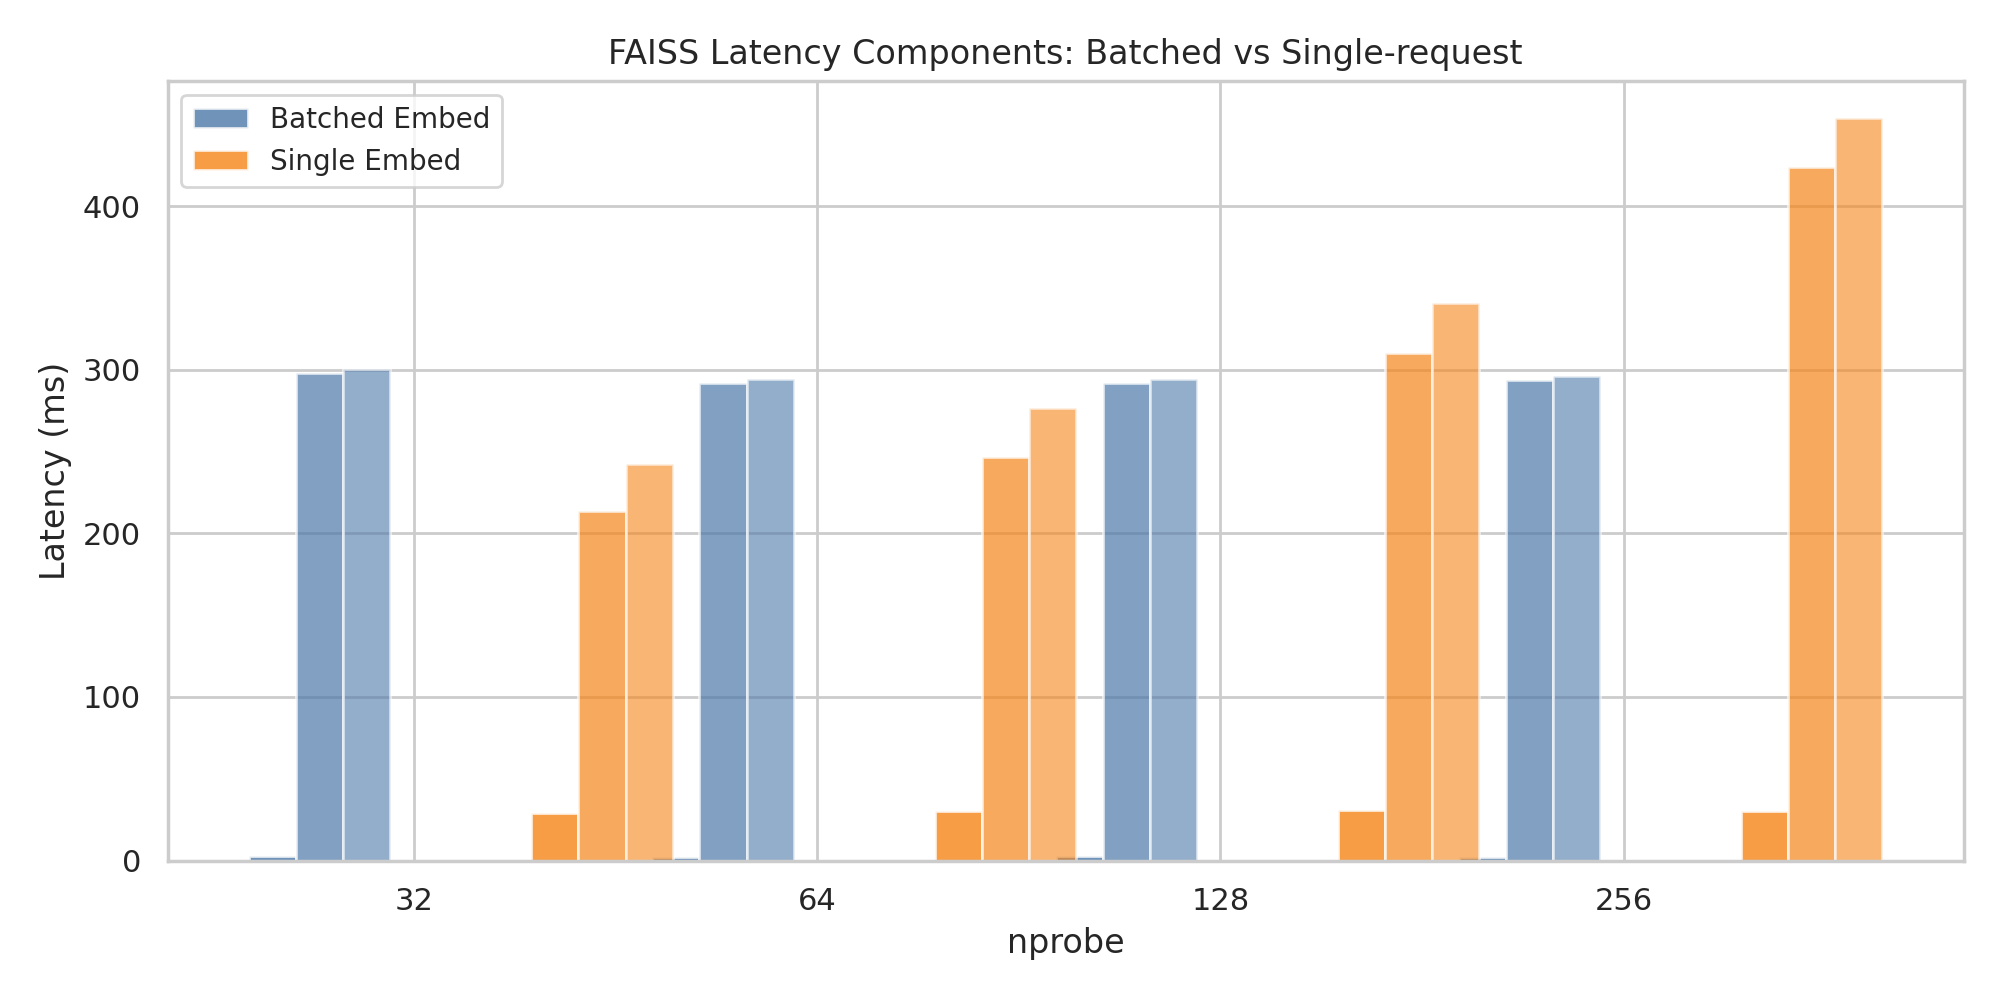
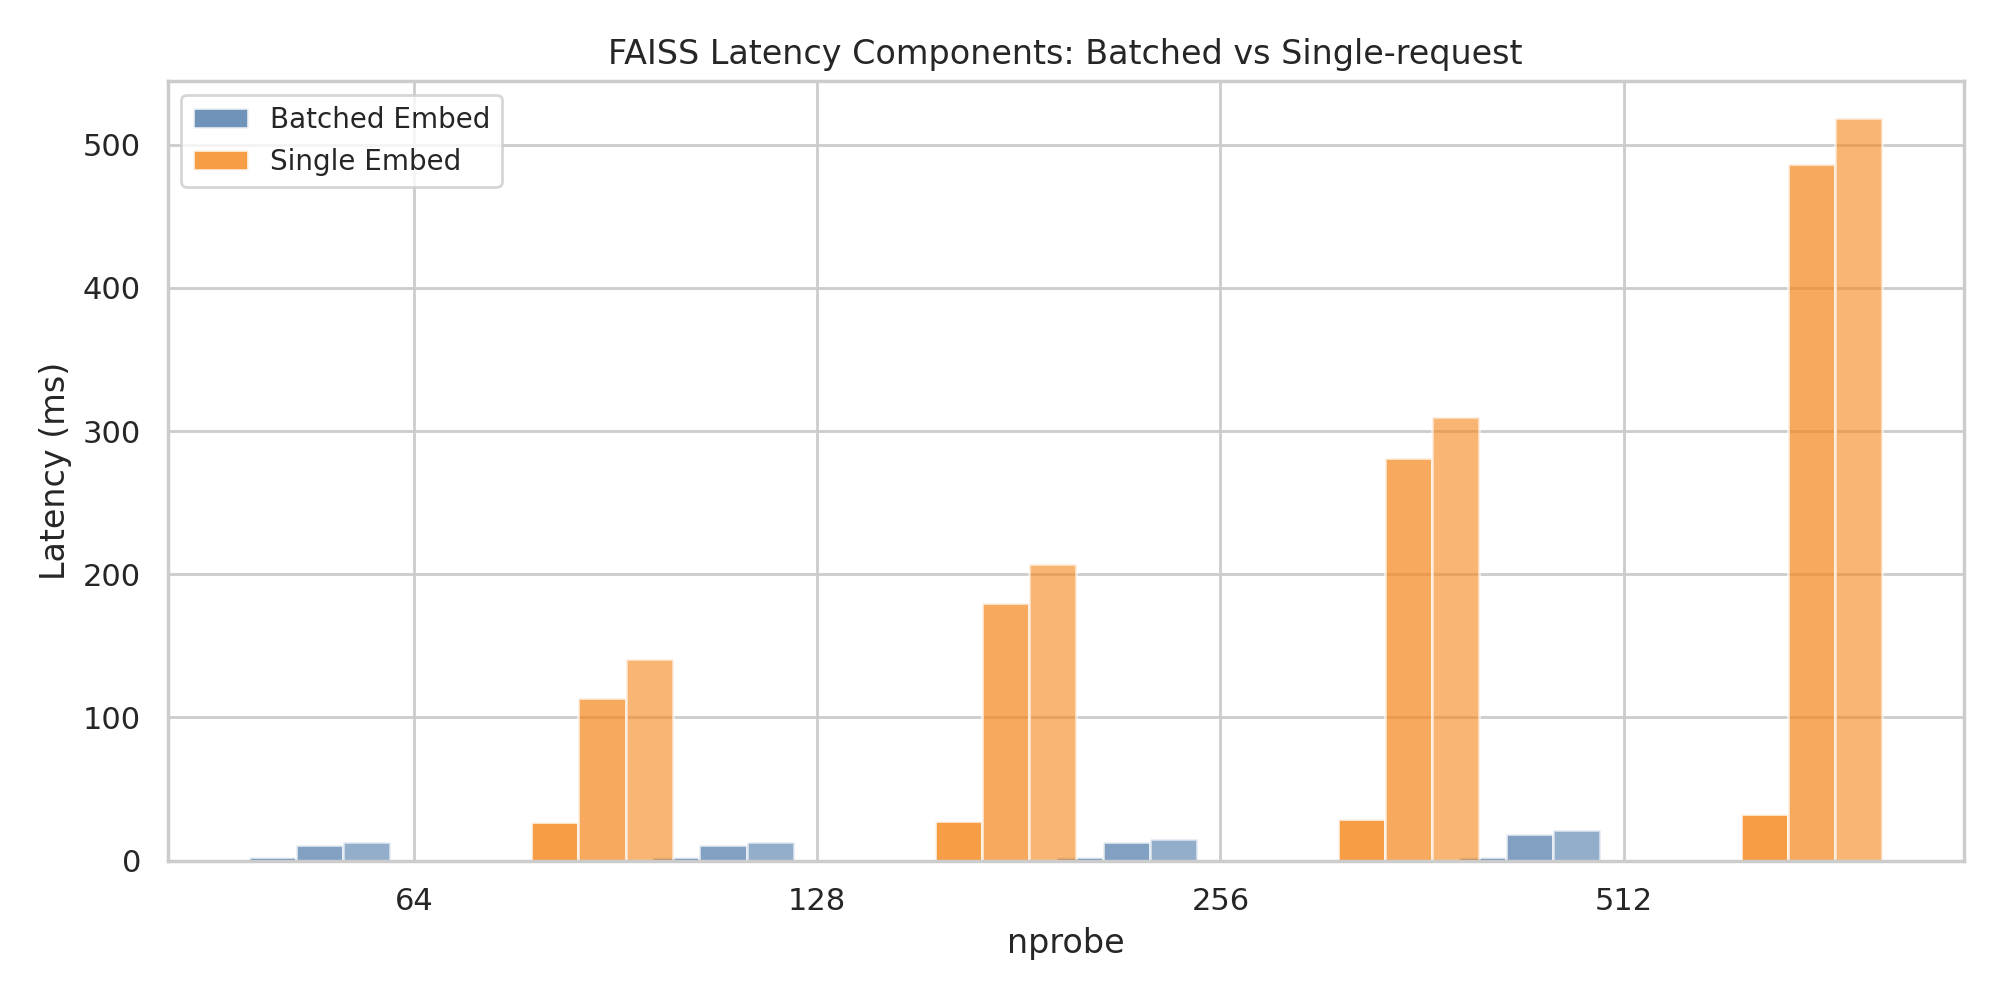
more plotting updateds

diff --git a/massive_serve/src/indicies/diskann_backend.py b/massive_serve/src/indicies/diskann_backend.py
@@ -3,12 +3,31 @@ import json
 import sys
 import threading
 from pathlib import Path
+import math
 import numpy as np
 
 try:
     import diskannpy as dap  # type: ignore
 except Exception as _e:
     dap = None
+
+
+def _resolve_k_fetch(requested_k: int, min_words, env_key: str, hard_cap: int = 256) -> int:
+    base = max(1, int(requested_k))
+    env_val = os.environ.get(env_key)
+    if env_val is not None and env_val.strip():
+        try:
+            return max(base, int(env_val))
+        except Exception:
+            pass
+    try:
+        mw = max(0, int(min_words)) if min_words is not None else 0
+    except Exception:
+        mw = 0
+    if mw <= 0:
+        return base
+    factor = 1 + min(4, max(1, math.ceil(mw / 50)))
+    return min(hard_cap, base * factor)
 
 
 class DiskANNBackend:
@@ -250,7 +269,7 @@ class DiskANNBackend:
         # Queries are used as-is (MIPS build); no query normalization.
         k = int(k)
         L = int(L)
-        W = int(W) if W is not None else 2
+        W = int(W) if W is not None else 4
         # threads: use exactly what is requested (no capping)
         eff_threads = max(1, int(threads if threads is not None else self.num_threads))
         try:
@@ -265,21 +284,7 @@ class DiskANNBackend:
         # Policy: env DISKANN_K_FETCH overrides. Otherwise:
         # - If no min_words filter: K_FETCH = k (no oversampling)
         # - If min_words > 0: K_FETCH = min(1000, k * 5)
-        try:
-            kfetch_env = os.environ.get("DISKANN_K_FETCH")
-            if kfetch_env is not None and kfetch_env.strip() != "":
-                K_FETCH = max(1, int(kfetch_env))
-            else:
-                try:
-                    _mw = int(min_words) if (min_words is not None) else 0
-                except Exception:
-                    _mw = 0
-                if _mw > 0:
-                    K_FETCH = min(1000, max(1, int(k)) * 5)
-                else:
-                    K_FETCH = max(1, int(k))
-        except Exception:
-            K_FETCH = max(1, int(k))
+        K_FETCH = _resolve_k_fetch(k, min_words, "DISKANN_K_FETCH")
         # Log a concise, clean effective config line for sanity
         try:
             print(

diff --git a/massive_serve/src/indicies/ivf_pq.py b/massive_serve/src/indicies/ivf_pq.py
@@ -6,6 +6,7 @@ import pickle
 import numpy as np
 import time
 import glob
+import math
 from tqdm import tqdm
 from rerank.exact_rerank import exact_rerank_topk
 from rerank.diverse_rerank import diverse_rerank_topk
@@ -61,6 +62,25 @@ def print_mem_use(label=""):
     mem_bytes = process.memory_info().rss
     mem_mb = mem_bytes / 1024 / 1024
     print(f"[{label}] Memory usage: {mem_mb:.2f} MB")
+
+
+
+def _resolve_k_fetch(requested_k: int, min_words, env_key: str, hard_cap: int = 256) -> int:
+    base = max(1, int(requested_k))
+    env_val = os.environ.get(env_key)
+    if env_val is not None and env_val.strip():
+        try:
+            return max(base, int(env_val))
+        except Exception:
+            pass
+    try:
+        mw = max(0, int(min_words)) if min_words is not None else 0
+    except Exception:
+        mw = 0
+    if mw <= 0:
+        return base
+    factor = 1 + min(4, max(1, math.ceil(mw / 50)))
+    return min(hard_cap, base * factor)
 
 
 
@@ -543,25 +563,7 @@ class IVFPQIndexer(object):
                 current = self.probe if hasattr(self, "probe") else 256
             print(f"[IVFPQIndexer] nprobe not provided; using default {current}")
 
-        # Dynamic oversampling policy (env override):
-        # - If FAISS_K_FETCH is set -> use max(k, FAISS_K_FETCH)
-        # - Else if min_words > 0 -> K_FETCH = min(1000, k * 5)
-        # - Else -> K_FETCH = k (no oversampling)
-        try:
-            _kfetch_env = os.environ.get("FAISS_K_FETCH")
-            if _kfetch_env is not None and _kfetch_env.strip() != "":
-                K_FETCH = max(int(k), int(_kfetch_env))
-            else:
-                try:
-                    _mw = int(min_words) if (min_words is not None) else 0
-                except Exception:
-                    _mw = 0
-                if _mw > 0:
-                    K_FETCH = min(1000, max(1, int(k)) * 5)
-                else:
-                    K_FETCH = max(1, int(k))
-        except Exception:
-            K_FETCH = max(1, int(k))
+        K_FETCH = _resolve_k_fetch(k, min_words, "FAISS_K_FETCH")
         base_Ks = [K_FETCH]
         
         print(f"[DEBUG] Input k={k}, type={type(k)}")

diff --git a/scripts/plot_faiss_batch_vs_single.py b/scripts/plot_faiss_batch_vs_single.py
@@ -20,19 +20,19 @@ except Exception:
 REPO_ROOT = os.path.abspath(os.path.join(os.path.dirname(__file__), ".."))
 DOCS_DIR = os.path.join(REPO_ROOT, "docs")
 
-# Hard-coded measurements (COUNT=400, shared queries, nprobe=32/64/128/256)
+# Measurements (COUNT=100 shared queries, nprobe ∈ {64, 128, 256, 512})
 BATCHED_RESULTS: List[Dict[str, float]] = [
-    {"nprobe": 32, "qps": 3.33, "embed": 2.47, "search": 297.75, "total": 300.22},
-    {"nprobe": 64, "qps": 3.42, "embed": 2.29, "search": 292.17, "total": 294.47},
-    {"nprobe": 128, "qps": 3.39, "embed": 2.57, "search": 291.86, "total": 294.43},
-    {"nprobe": 256, "qps": 3.36, "embed": 2.40, "search": 293.60, "total": 296.01},
+    {"nprobe": 64, "qps": 9.09, "embed": 2.54, "search": 10.71, "total": 13.25},
+    {"nprobe": 128, "qps": 10.00, "embed": 2.41, "search": 10.79, "total": 13.19},
+    {"nprobe": 256, "qps": 9.09, "embed": 2.52, "search": 12.60, "total": 15.12},
+    {"nprobe": 512, "qps": 9.09, "embed": 2.54, "search": 18.76, "total": 21.30},
 ]
 
 SINGLE_RESULTS: List[Dict[str, float]] = [
-    {"nprobe": 32, "qps": 4.12, "embed": 29.27, "search": 213.39, "total": 242.67},
-    {"nprobe": 64, "qps": 3.57, "embed": 30.16, "search": 246.77, "total": 276.93},
-    {"nprobe": 128, "qps": 2.92, "embed": 30.61, "search": 310.37, "total": 340.99},
-    {"nprobe": 256, "qps": 2.20, "embed": 30.20, "search": 423.83, "total": 454.03},
+    {"nprobe": 64, "qps": 3.12, "embed": 27.23, "search": 113.87, "total": 141.11},
+    {"nprobe": 128, "qps": 2.56, "embed": 27.76, "search": 179.66, "total": 207.42},
+    {"nprobe": 256, "qps": 2.04, "embed": 28.73, "search": 281.10, "total": 309.83},
+    {"nprobe": 512, "qps": 1.47, "embed": 32.15, "search": 486.72, "total": 518.88},
 ]
 
 

diff --git a/scripts/plot_diskann_single_request_latency.py b/scripts/plot_diskann_single_request_latency.py
@@ -21,11 +21,11 @@ REPO_ROOT = os.path.abspath(os.path.join(os.path.dirname(__file__), ".."))
 PLOT_PATH = os.path.join(REPO_ROOT, "docs", "plots", "diskann_single_request_latency_vs_L.png")
 
 SINGLE_REQUEST_LATENCY: List[dict] = [
-    {"L": 1000, "embed_ms": 26.10, "search_ms": 87.08, "map_ms": 28.77, "total_ms": 113.18},
-    {"L": 1500, "embed_ms": 26.24, "search_ms": 115.50, "map_ms": 33.79, "total_ms": 141.74},
-    {"L": 2000, "embed_ms": 25.60, "search_ms": 130.94, "map_ms": 32.63, "total_ms": 156.54},
-    {"L": 2500, "embed_ms": 24.92, "search_ms": 152.34, "map_ms": 32.95, "total_ms": 177.26},
-    {"L": 3000, "embed_ms": 24.05, "search_ms": 164.28, "map_ms": 33.85, "total_ms": 188.33},
+    {"L": 100, "embed_ms": 30.05, "search_ms": 11.43, "map_ms": 0.51, "total_ms": 41.49},
+    {"L": 500, "embed_ms": 28.90, "search_ms": 27.88, "map_ms": 0.74, "total_ms": 56.77},
+    {"L": 1000, "embed_ms": 29.06, "search_ms": 47.90, "map_ms": 0.68, "total_ms": 76.96},
+    {"L": 1500, "embed_ms": 29.07, "search_ms": 67.26, "map_ms": 0.94, "total_ms": 96.32},
+    {"L": 2000, "embed_ms": 30.60, "search_ms": 93.44, "map_ms": 0.94, "total_ms": 124.04},
 ]
 
 

diff --git a/scripts/plot_diskann_single_request_qps.py b/scripts/plot_diskann_single_request_qps.py
@@ -27,11 +27,11 @@ OUTPUT_PATH = os.path.join(REPO_ROOT, "docs", "plots", "diskann_single_request_q
 
 # Measurements captured via `REQUEST_MODE=single COUNT=20` sweep.
 SINGLE_REQUEST_RESULTS: List[dict] = [
-    {"L": 1000, "QPS": 2.99},
-    {"L": 1500, "QPS": 3.39},
-    {"L": 2000, "QPS": 3.12},
-    {"L": 2500, "QPS": 3.12},
-    {"L": 3000, "QPS": 2.70},
+    {"L": 100, "QPS": 12.86},
+    {"L": 500, "QPS": 10.34},
+    {"L": 1000, "QPS": 8.41},
+    {"L": 1500, "QPS": 7.09},
+    {"L": 2000, "QPS": 5.77},
 ]
 
 

diff --git a/docs/index.md b/docs/index.md
@@ -141,7 +141,8 @@ During search, **DS Serve** initially oversamples a pool of candidates, and then
 
 
 
-<p align="left"><i>Figures 3a–3b: FAISS IVFPQ batched (left) vs single-request (right) behavior (COUNT=400, shared query list). Batched mode keeps one continuous POST open, while single-request fires one POST per query to mimic the user-facing interface.</i></p>
+<p align="left"><i>Figures 3a–3b: FAISS IVFPQ batched (left) vs single-request (right) behavior (COUNT=100 shared queries, nprobe ∈ {64, 128, 256, 512}). Batched mode keeps one continuous POST open, while single-request fires one POST per query to mimic the user-facing interface.</i></p>
+<p>With these settings, batched throughput stays near 9–10 QPS and ~13–21&nbsp;ms backend latency as nprobe rises, while single-request throughput drops from ~3.1 to ~1.5 QPS and latency grows from ~141&nbsp;ms to ~519&nbsp;ms.</p>
 <p align="center">
   <img src="{{ 'plots/faiss_qps_batch_vs_single.png' | relative_url }}" style="width: 48%; margin: 5px;" />
   <img src="{{ 'plots/faiss_latency_batch_vs_single.png' | relative_url }}" style="width: 48%; margin: 5px;" />
@@ -158,10 +159,15 @@ During search, **DS Serve** initially oversamples a pool of candidates, and then
   <img src="{{ 'accuracy_ivfpq_vs_diskann_naturalqs.png' | relative_url }}" style="width: 45%; margin: 5px;" />
 </p>
 
-<p align="left"><i>Figure 6: DiskANN single-request latency breakdown with W=8, threads=64. Search time is the latency for searching the index, mapping fetches passage content by ID, and total is the backend latency as a whole. This contrasts with Figures 4a–4b (batched throughput). Single-request is what the UI uses, while batching is recommended for high-volume API use.</i></p>
+<p align="left"><i>Figure 6a: DiskANN single-request QPS vs L with W=8, threads=64, COUNT=1000 (WARMUP_SKIP=100). Each point represents a continuous stream of single-query POSTs against the same host used for the batched benchmarks.</i></p>
+<p align="center">
+  <img src="{{ 'plots/diskann_single_request_qps_vs_L.png' | relative_url }}" style="width: 70%; margin: 5px;" />
+</p>
+<p align="left"><i>Figure 6b: DiskANN single-request latency breakdown with W=8, threads=64, sweeping L ∈ {100, 500, 1000, 1500, 2000}. Search time is the latency for searching the index, mapping fetches passage content by ID, and total is the backend latency as a whole. This contrasts with Figures 4a–4b (batched throughput). Single-request is what the UI uses, while batching is recommended for high-volume API use.</i></p>
 <p align="center">
   <img src="{{ 'plots/diskann_single_request_latency_vs_L.png' | relative_url }}" style="width: 90%; margin: 5px;" />
 </p>
+<p>Embedding remains steady around 30&nbsp;ms per query while DiskANN search grows from ~11&nbsp;ms at L=100 to ~93&nbsp;ms at L=2000; mapping stays under 1&nbsp;ms thanks to shard caching. Together with the QPS trend above, this shows single-query throughput falling from ~13 QPS at L=100 to ~5.8 QPS at L=2000 on the same hardware.</p>
 <p class="small-note"><b>Note:</b> The UI latency pill measures end-to-end wall-clock time (request setup, network travel, JSON encode/decode, rendering). Our plot uses the server-reported <code>timings_ms.total</code>, which only covers embedding + search + post-processing. Expect UI numbers to run higher.</p>
 
 ---
@@ -198,7 +204,7 @@ In DS Serve we support both backends:
 
 2. **DiskANN**  
    For higher throughput, we integrate <a href="https://github.com/microsoft/DiskANN" target="_blank">DiskANN</a>, a disk‑based ANN system.  
-   DiskANN achieves **>1000 index‑level QPS** and **~200+ end‑to‑end QPS** at ~200 GB RAM, making it suitable for high‑throughput deployments while maintaining competitive accuracy.  
+   DiskANN achieves **>1000 index‑level QPS** and **~200+ end‑to‑end QPS** at ~200 GB RAM, making it suitable for high‑throughput deployments while maintaining competitive accuracy. 
    In our internal evaluations, DiskANN’s implicit reranking improved downstream accuracy compared to pure ANN and, on some tasks (e.g., MMLU), matched or exceeded Exact Search.
 
 <details>

diff --git a/README.md b/README.md
@@ -108,6 +108,56 @@ curl -X POST http://compactds.duckdns.org:30888/search \
   -d '{"queries": ["quantum computing", "Who is Nikola Tesla", "AI ethics"], "n_docs": 2}'
 ```
 
+## Benchmark & plotting scripts
+
+Helper scripts in `scripts/` reproduce the QPS/latency sweeps used in the docs. Run them from the repo root and override parameters via environment variables.
+
+### DiskANN batched benchmark
+Continuous POST with shared payload (Figures 4a–4b).
+```bash
+L_LIST="100 500 1000 1500 2000" \
+COUNT=2000 \
+HOST=http://api.ds-serve.org:30888 \
+scripts/diskann_qps_batch.sh
+```
+Knobs: `HOST`, `QUERIES`, `COUNT`, `CONCURRENCY`, `K`, `W`, `THREADS`, `L_LIST`.
+
+### DiskANN single-request benchmark
+One POST per query (Figure 6).
+```bash
+COUNT=1000 \
+WARMUP_SKIP=100 \
+L_LIST="100 500 1000 1500 2000" \
+scripts/diskann_qps_single.sh
+```
+Supports the same overrides as the batched script plus `WARMUP_SKIP` to drop warmup queries.
+
+### FAISS / IVFPQ batched benchmark
+```bash
+COUNT=100 \
+NPROBE_LIST="64 128 256 512" \
+scripts/ivfpq_qps_batch.sh
+```
+Set `K`, `NPROBE`, `EXACT`, `DIVERSE`, `LAMBDA`, `HOST`, and `QUERIES` as needed. When `NPROBE_LIST` is provided the script sweeps through each value using the same shuffled sample.
+
+### FAISS / IVFPQ single-request benchmark
+```bash
+COUNT=100 \
+CONCURRENCY=64 \
+NPROBE_LIST="64 128 256 512" \
+scripts/ivfpq_qps_single.sh
+```
+Each query is sent independently; `CONCURRENCY` controls the `xargs -P` fan-out.
+
+### Regenerating plots
+After collecting new measurements, run:
+```bash
+python scripts/plot_diskann_single_request_qps.py
+python scripts/plot_diskann_single_request_latency.py
+python scripts/plot_faiss_batch_vs_single.py
+```
+These write to `docs/plots/` and keep the figures used in `docs/index.md` in sync.
+
 
 ##  DiskANN build 
 NOTE: THIS IS ONLY FOR INTERNAL TESTING CURRENTLY \
